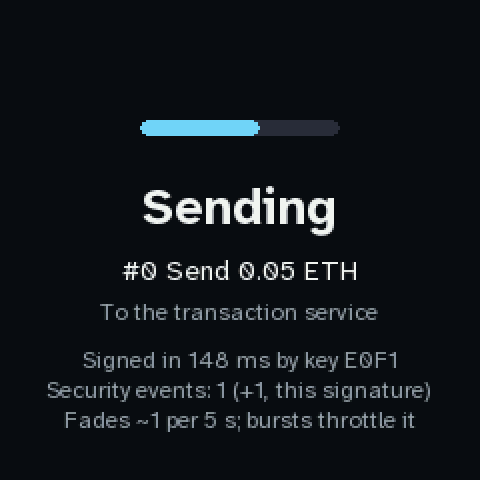
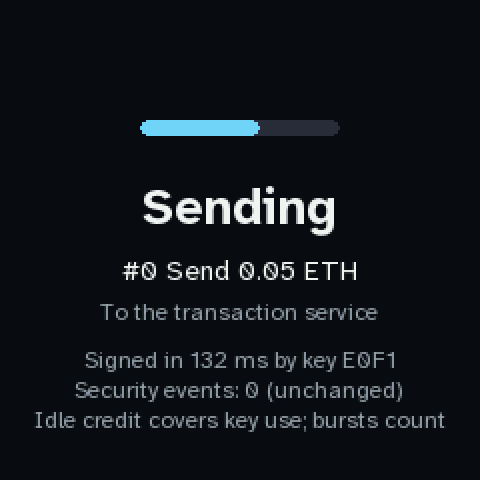
Trust M security counter: key uses are paid from an idle credit first
The first Safe approval by a real Trust M (TM1 pinned unlocked, against the laptop's mock Safe)
logged "sec 0->0", not +1. Probing the running console: after ~10 min idle, 8 signatures left the
counter at 0, then it rose by one each (7 after 12). The bench runs had no credit, so every
signature counted. The Sending screen now shows the counter's actual change, the sim models the
credit (case_sec), and only a rise larger than one signature can explain is flagged.

Claude-Session: https://claude.ai/code/session_018VxLv8Exi5pQ6LLVcdkqFD

Changed region(s): [[0.0625, 0.7188, 0.9375, 0.9062]]

diff --git a/emu/core/shims/trustm_sim.py b/emu/core/shims/trustm_sim.py
@@ -11,9 +11,10 @@
 # "LcsO < op", Read ALW; the security event counter E0C5 at 0. The certificate is signed by a test
 # CA (CA_PUB), which tmcfg.py accepts only off the Pico.
 #
-# The security event counter as the real chip showed it (2026-09-28): every CalcSign, with E0F0
-# or E0F1, raises it by one; refused commands do not; it falls back by one about every 5 s.
-# GenKeyPair's effect on it is not measured yet.
+# The security event counter as the real chip showed it (2026-09-28): a CalcSign (E0F0 or E0F1)
+# is paid from a credit the chip builds while idle (one per ~5 s, at least 8), and only then
+# raises the counter by one; refused commands do not count; it falls back by one about every 5 s.
+# So a lone approval after idle leaves it at 0 and a burst makes it climb. GenKeyPair: not measured.
 #
 # Modeled as the chip documents them, NOT yet confirmed on silicon (a sacrificial chip will): that
 # GenKeyPair checks the key object's Change condition; that metadata can be written only while
@@ -28,6 +29,7 @@ import time
 import _emu
 
 SEC_DECAY_MS = 5000     # one count back about every 5 s (measured on the real chip)
+SEC_CREDIT_MAX = 8      # key uses the chip absorbs after an idle spell (at least 8 seen, 2026-09-28)
 
 ADDR = 0x30
 N = 0xFFFFFFFF00000000FFFFFFFFFFFFFFFFBCE6FAADA7179E84F3B9CAC2FC632551
@@ -175,6 +177,7 @@ class Chip:
         self.uid = None
         self.sec = 0
         self.sec_t = time.ticks_ms()
+        self.credit = 0
         self.err = 0
         self.ptr = 0x82
         self.pending = b""
@@ -300,17 +303,28 @@ class Chip:
         return o
 
     def sec_now(self):
-        """The counter after its decay since it was last touched."""
+        """The counter after the time since it was last touched: each 5 s tick takes one count off,
+        or, with the counter at 0, adds one to the idle credit."""
         steps = time.ticks_diff(time.ticks_ms(), self.sec_t) // SEC_DECAY_MS
         if steps > 0:
-            self.sec = max(0, self.sec - steps)
+            dec = min(self.sec, steps)
+            self.sec -= dec
+            self.credit = min(SEC_CREDIT_MAX, self.credit + steps - dec)
             self.sec_t = time.ticks_add(self.sec_t, steps * SEC_DECAY_MS)
-        if self.sec == 0:
-            self.sec_t = time.ticks_ms()
         return self.sec
 
     def sec_event(self):
+        """Something suspect: the counter goes up."""
         self.sec = min(255, self.sec_now() + 1)
+
+    def key_use(self):
+        """A private-key use: paid from the idle credit while there is any, else a security event
+        (the real chip: after ~10 min idle the first 8 signatures left it at 0, then +1 each)."""
+        self.sec_now()
+        if self.credit > 0:
+            self.credit -= 1
+        else:
+            self.sec_event()
 
     def ac(self, o, which):
         """Is the object's access condition met? ALW, NEV and LcsO/LcsA comparisons; anything else
@@ -447,7 +461,7 @@ class Chip:
         if not self.ac(o, "exec"):
             raise _Fail(ERR_AC)
         r, s = p256.sign(o["key"], digest)
-        self.sec_event()                    # a private-key use counts as a security event
+        self.key_use()                      # a private-key use: from the idle credit, else +1
         if _rand(1)[0] & 1:
             s = N - s                       # a chip does not promise low s
         return _int(r) + _int(s)

diff --git a/test-vectors/trustm_test.py b/test-vectors/trustm_test.py
@@ -299,15 +299,17 @@ def case_console():
           and any("Bound to Infineon cert" in l for l in sign_info[0]) and any("Security event counter:" in l for l in sign_info[0]),
           "the Signing screen says what the chip is: Infineon Trust M, E0F1 sealed, the factory binding, its security events")
     sent_info = [i for t, i in seen if t == "Sending"]
-    check(sent_info and any(l.startswith("Signed in") and "E0F1" in l for l in sent_info[0]) and any("+1, this signature" in l for l in sent_info[0]),
-          "the Sending screen: signed by E0F1 in n ms, security events +1 for this signature (as the real chip counts)")
+    check(sent_info and any(l.startswith("Signed in") and "E0F1" in l for l in sent_info[0])
+          and any(l.startswith("Security events:") and ("unchanged" in l or "+1" in l) for l in sent_info[0]),
+          "the Sending screen: signed by E0F1 in n ms, and the counter after it (unchanged from idle credit, or +1)")
     check(not Q.work_info, "the lines are cleared after signing")
     # a security event during a signature: flagged on the result
     sim = trustm_sim.chip()
     real_calc = sim.calc_sign
 
     def noisy(param, data):
-        sim.sec_event()                     # something besides the signature
+        sim.sec_event()                     # two suspect events besides the signature: more than
+        sim.sec_event()                     # one signature can explain, credit or not
         return real_calc(param, data)
     sim.calc_sign = noisy
     try:
@@ -318,6 +320,23 @@ def case_console():
     check(Q.result and Q.result[0] and any("besides this signature" in l for l in Q.result[2]),
           "the chip counted more than the signature itself: the result says so")
     check(Q.sec == sim.sec_now(), "and the Device screen shows the new count")
+
+
+def case_sec():
+    """The security event counter as the real chip counts it: key uses paid from an idle credit
+    first, then +1 each (2026-09-28: after idle, 8 signatures left it at 0, then it climbed)."""
+    import hashlib, signer
+    only_trustm()
+    trustm_sim.seal_as_quorum()
+    s = signer.load(soft=False)
+    sim = trustm_sim.chip()
+    sim.sec, sim.credit = 0, 3
+    d = hashlib.sha256(b"sec").digest()
+    seen = []
+    for _ in range(5):
+        s.sign(d)
+        seen.append(s.sec())
+    check(seen == [0, 0, 0, 1, 2], "three signatures from the idle credit, then +1 each (%r)" % seen)
 
 
 def case_console_pin():
@@ -461,7 +480,7 @@ def case_knob():
 
 
 def main():
-    for case in (case_real_chip, case_detect, case_full, case_resume, case_gates, case_other, case_console,
+    for case in (case_real_chip, case_detect, case_full, case_resume, case_gates, case_other, case_console, case_sec,
                  case_console_pin, case_dual, case_ui, case_knob):
         print("--", case.__name__[5:])
         try:

diff --git a/firmware/quorum.py b/firmware/quorum.py
@@ -722,10 +722,12 @@ def chip_info():
 
 
 def read_sec():
-    """The Trust M's security event counter (E0C5), None on other chips. It rises on every use of
-    a private key and on events the chip finds suspect, falls back by one about every 5 s, and
-    past a threshold the chip slows every command down: the Trust M's own brake on a burst of
-    signatures (measured on the real chip, 2026-09-28)."""
+    """The Trust M's security event counter (E0C5), None on other chips. A private-key use is paid
+    from a credit the chip builds while idle, and only then raises it by one; events the chip finds
+    suspect raise it too. It falls back by one about every 5 s, and past a threshold the chip slows
+    every command down: the Trust M's own brake on bursts (measured on the real chip, 2026-09-28:
+    a lone approval after idle reads 0 -> 0, a burst of 12 signatures climbed to 7). A signature
+    adds at most one, so only a larger rise is flagged."""
     if sig is None or sig.name != "trustm":
         return None
     try:
@@ -744,9 +746,9 @@ def sec_extra(before, after, signed=1):
 def signed_info(ms, sec0, sec1):
     out = ["Signed in %d ms by %s" % (ms, "key %04X" % sig.slot if sig.name == "trustm" else "slot %d" % sig.slot)]
     if sec1 is not None:
-        n = sec_extra(sec0, sec1)
-        out.append("Security events: %d (%s)" % (sec1, "+1, this signature" if not n else "%d more than this signature" % n))
-        out.append("Fades ~1 per 5 s; bursts throttle it")
+        rise = sec1 - sec0 if sec0 is not None else 0
+        out.append("Security events: %d (%s)" % (sec1, "unchanged" if rise <= 0 else "+%d" % rise))
+        out.append("Idle credit covers key use; bursts count")
     if counter is not None:
         out.append("Key use #%d" % counter)
     return out

diff --git a/docs/TRUSTM.md b/docs/TRUSTM.md
@@ -100,10 +100,15 @@ The chip: Adafruit 4351, UID `cd16338401001c000100000a091b5c000b0062006c80101071
 - E0F0 signs, and its signature verifies under the certificate's key. CalcSign takes about 150 ms, including opening a session.
 
 **The security event counter (E0C5):**
-- Every CalcSign raises it by 1, with E0F0 and with E0F1 alike.
+- **A private-key use is paid from an idle credit first.** The chip builds the credit while it
+  sits idle. Only once the credit is spent does a CalcSign raise the counter, by 1, with E0F0 and
+  E0F1 alike.
+  - On the console after about 10 minutes idle, 8 signatures in a row left the counter at 0.
+    From then on it rose by 1 per signature, reaching 7 after 12.
+  - Right after a busy spell (the first bench runs), every signature counted at once.
 - Refused commands do not raise it (tried: a bad OID, CalcSign on an empty key, reading a key object).
 - It falls back by 1 about every 5 s. This is the Trust M's brake on bursts: past a threshold the chip slows down.
-- So the console expects +1 per signature, and flags only a rise beyond that.
+- So a normal approval reads "0 → 0", and a signature adds at most 1. The console flags only a rise larger than 1.
 
 **Error codes (F1C2):** 0x01 unknown OID, 0x07 reading a key object's data, 0x0B CalcSign with an empty key.
 
@@ -120,6 +125,12 @@ The chip: Adafruit 4351, UID `cd16338401001c000100000a091b5c000b0062006c80101071
 
 The emulator models these the way the manual describes them (`emu/core/shims/trustm_sim.py`).
 
+**The console on the real chip (2026-09-28).** The dual image ran with TM1 pinned as `locked: False`, against the laptop's mock Safe (`tools/quorum serve`), with nothing on chain.
+- **Boot:** the pin passed, the factory binding verified in 2.6 s, and 147 KB of heap was free.
+- **Signing:** the console joined the Family Safe as owner `0x47c0…8f35`, and you approved #0.
+- **The mock:** it verified the WebAuthn P-256 signature (low s), and #0 executed.
+- **The board's log:** "signed #0 … sec 0->0". That reading is what uncovered the idle credit.
+
 ## On the screens
 
 While it signs, the console shows short facts read from the chip itself (`tmcfg.info_lines`, `quorum.chip_info`):
@@ -128,7 +139,7 @@ While it signs, the console shows short facts read from the chip itself (`tmcfg.
   - "Key E0F1 made on-chip, sealed (LcsO op)"
   - "Bound to Infineon cert, CA 101" (checked once at boot)
   - "Security event counter: n"
-- **Sending:** the signing time and the counter after the signature ("+1, this signature").
+- **Sending:** the signing time and the counter after the signature ("unchanged" after idle, "+1" in a burst).
 - **Result:** if the counter rose by more than the signature, the result screen says so and `log.txt` records it.
 - **Device screen:** the Trust M shows `E0F1 locked · Trust M`, and a Security row where the ATECC has Key uses.
 - **ATECC:** its own lines (part, sealed slot, key uses).

diff --git a/buildlog/2026-09-28-trustm.md b/buildlog/2026-09-28-trustm.md
@@ -46,7 +46,7 @@ Firmware mounted from the laptop (`mpremote mount`), so the board's flash was ne
 - E0F0 signed, and the signature verified under the certificate's key. CalcSign takes about 150 ms, including the session.
 
 **The security event counter:**
-- **+1 per CalcSign**, for E0F0 and for E0F1.
+- **+1 per CalcSign**, for E0F0 and for E0F1, on these bench runs. The console run later showed this is only true once the chip's idle credit is spent (see below).
 - Nothing for refusals (bad OID, CalcSign on an empty key, reading a key object).
 - **It fades about 1 every 5 s.**
 - The first sim assumed "unchanged", and so did the console's check. Both now expect +1 per signature and flag only more than that.
@@ -73,3 +73,22 @@ Firmware mounted from the laptop (`mpremote mount`), so the board's flash was ne
 - **Current draw:** the Trust M's draw on GP6 is not measured.
 
 Suites: ceremony 79, console 110, trustm 70, manifest, MicroPython vectors and bootart, all pass.
+
+## Later the same day: the ceremony and the console on the board
+
+- **The ceremony screens were black on the 2.8" panel.** They drew once instead of strip by strip.
+  - Fixed, and the knob now drives the ceremony (`41b14201`).
+- **T1 on the device stopped.** The headless run's snapshot was on the laptop.
+  - T1 now resumes a ceremony started elsewhere (`d34020ea`).
+  - The snapshot survives pushes (`07f0d45e`).
+- **T1–T6 went green on the device.**
+  - The owner shown at T5 matches `getSigner` on Base Sepolia and Base: `0x47c0998C6a7A1955794071b9f4058e7814178f35`.
+  - No signer contract is deployed yet.
+- **The console on the real Trust M,** with no chain involved:
+  - Setup: TM1 pinned with `locked: False`; `secrets.py` pointed at the laptop's mock Safe (the real lines are kept on the board as `secrets.pretm`).
+  - At boot: the binding verified in 2.6 s, and 147 KB of heap was free.
+  - #0 approved on the device. The mock verified the WebAuthn P-256 signature, and #0 executed. **The first Safe approval by a Trust M.**
+- **The security event counter read "0 -> 0" for that signature.**
+  - Probing the running console: after about 10 minutes idle, 8 signatures left it at 0, then it rose by 1 per signature (7 after 12).
+  - So **key uses are paid from an idle credit first.** The first bench runs had no credit.
+  - The Sending screen now reports the counter's actual change instead of "+1, this signature". The sim models the credit.

diff --git a/docs/quorum-ui/README.md b/docs/quorum-ui/README.md
@@ -46,7 +46,7 @@ CA"; a real chip reads "CA 101".
 | <img src="shots/51-trustm-home.png" width="240"> | <img src="shots/52-trustm-signing.png" width="240"> |
 | **Home on a Trust M.** Nothing changes: the queue and the Safe are the same whichever chip signs. | **Signing.** The chip's own facts, most telling first. It is an Infineon OPTIGA Trust M (CC EAL6+). Its key E0F1 was made on the chip and is sealed (lifecycle operational). The key is bound to the chip's Infineon factory certificate, checked once at boot. The last line is its security event counter. |
 | <img src="shots/53-trustm-sending.png" width="240"> | <img src="shots/54-trustm-signed.png" width="240"> |
-| **Sending.** How long the signature took and which key made it. Below that, the counter after the signature. **The real chip counts +1 for every signature and fades about 1 every 5 s**; bursts make it slow down. That is Infineon's own brake, measured on the real chip. Only a rise beyond the signature's own +1 is flagged on the result. | **Signed.** As before. With an ATECC the result adds its key-use count, and with a Trust M it adds a line only if the security counter rose by more than the signature. |
+| **Sending.** How long the signature took and which key made it. Below that, the counter after the signature. **The real chip pays for key uses from a credit it builds while idle.** So a normal approval reads *unchanged*; in a burst it climbs by 1 per signature and fades about 1 every 5 s, and past a threshold the chip slows down. That is Infineon's own brake, measured on the real chip. A signature adds at most 1, so only a larger rise is flagged on the result. | **Signed.** As before. With an ATECC the result adds its key-use count, and with a Trust M it adds a line only if the security counter rose by more than a signature can explain. |
 | <img src="shots/55-trustm-device.png" width="240"> | |
 | **Device (X).** The slot is `E0F1 locked · Trust M`. Where the ATECC shows **Key uses**, the Trust M shows **Security**, its event count. | |
 
